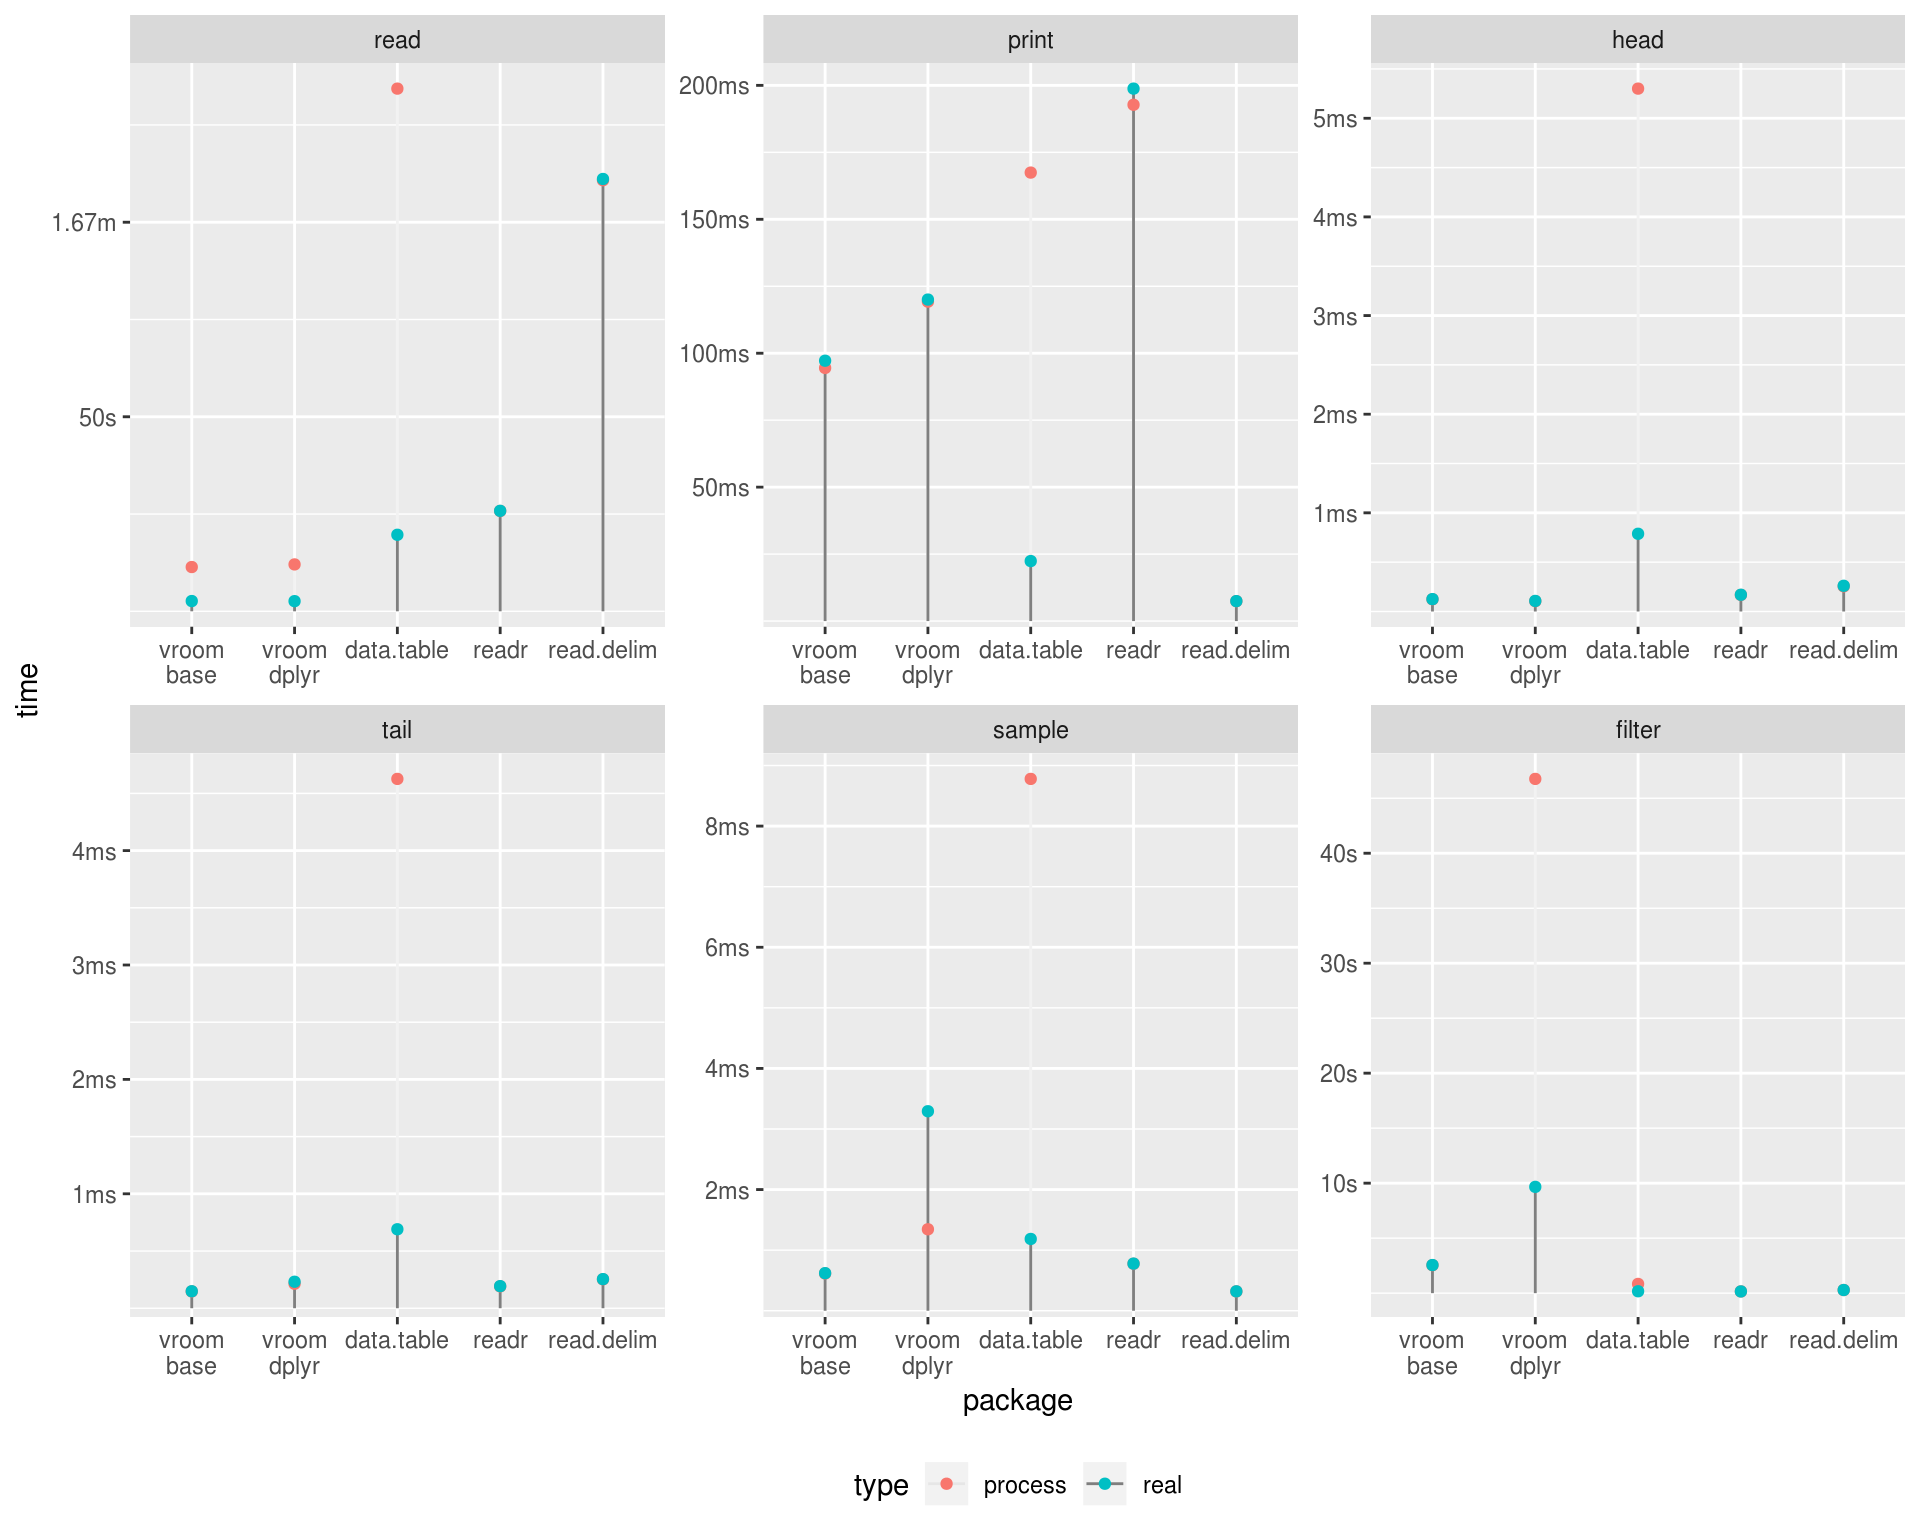
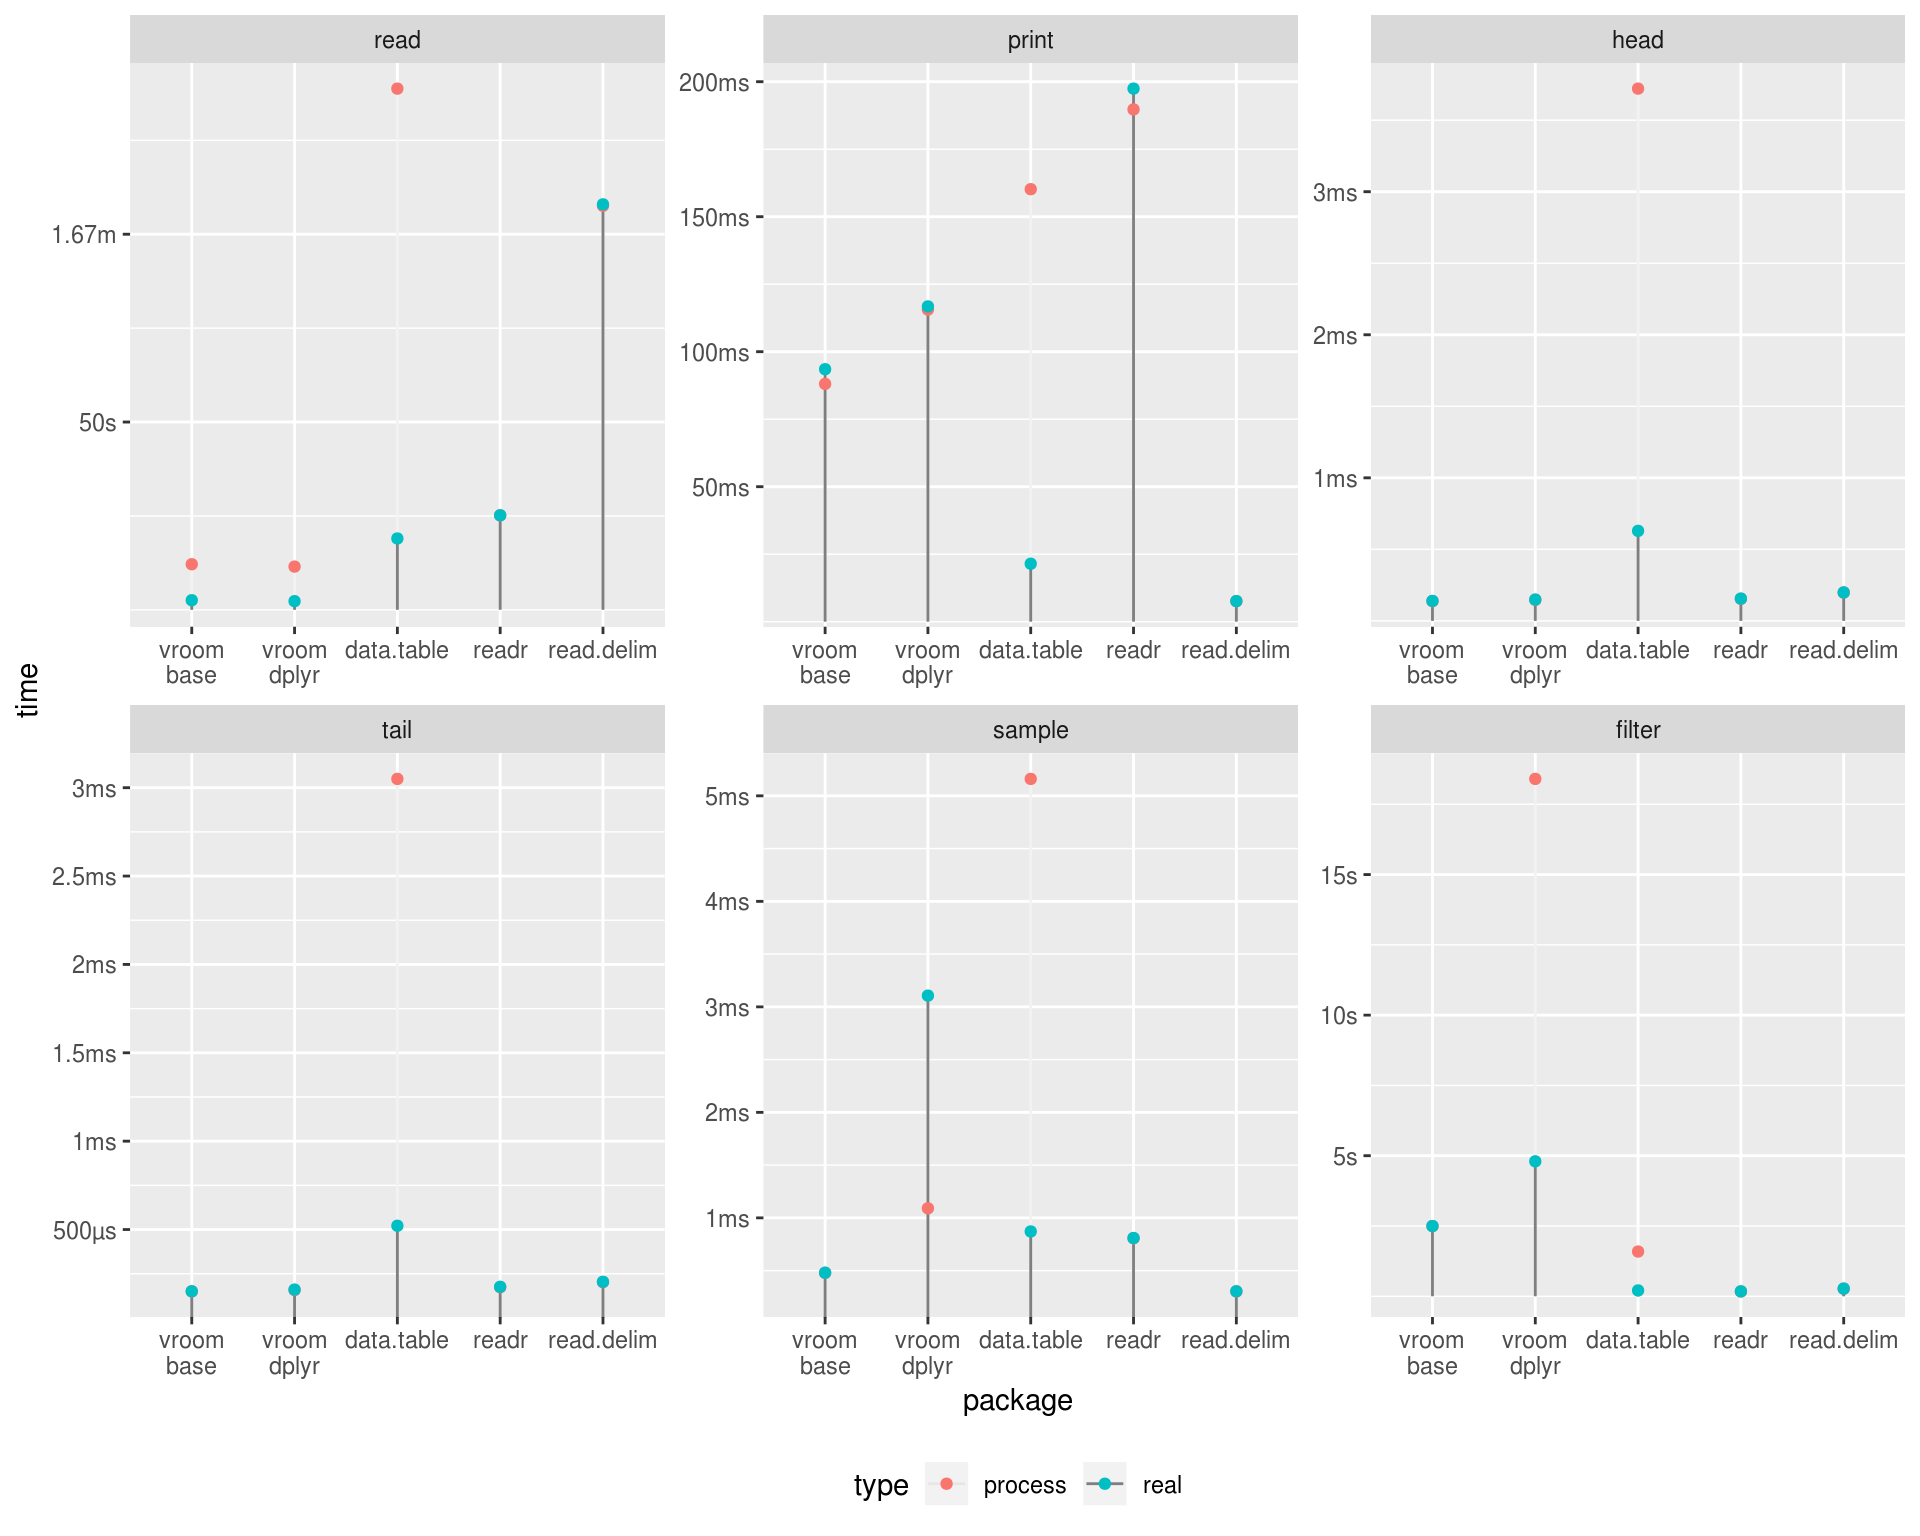
Built site for vroom: 0.0.0.9000@b6ea9a0

diff --git a/index.html b/index.html
@@ -88,7 +88,7 @@
 </h1></div>
 <!-- badges: start -->
 
-<p>The fastest delimited reader for R, <strong>631.84 MB/sec</strong>.</p>
+<p>The fastest delimited reader for R, <strong>650.54 MB/sec</strong>.</p>
 <p>But that’s impossible! How can it be <a href="https://jimhester.github.io/vroom/articles/benchmarks/benchmarks.html">so fast</a>?</p>
 <p>vroom doesn’t stop to actually <em>read</em> all of your data, it simply indexes where each record is located so it can be read later. The vectors returned use the <a href="https://svn.r-project.org/R/branches/ALTREP/ALTREP.html">Altrep framework</a> to lazily load the data on-demand when it is accessed, so you only pay for what you use.</p>
 <p>vroom uses multiple threads for indexing and materializing non-character vectors, to further improve performance.</p>
@@ -103,27 +103,27 @@
 <tbody>
 <tr class="odd">
 <td align="left">vroom</td>
-<td align="right">2.64</td>
-<td align="right">42.12</td>
-<td align="left">631.84 MB</td>
+<td align="right">2.56</td>
+<td align="right">42.14</td>
+<td align="left">650.54 MB</td>
 </tr>
 <tr class="even">
 <td align="left">data.table</td>
-<td align="right">19.67</td>
-<td align="right">5.65</td>
-<td align="left">84.73 MB</td>
+<td align="right">19.00</td>
+<td align="right">5.68</td>
+<td align="left">87.71 MB</td>
 </tr>
 <tr class="odd">
 <td align="left">readr</td>
-<td align="right">25.82</td>
-<td align="right">4.30</td>
-<td align="left">64.55 MB</td>
+<td align="right">25.18</td>
+<td align="right">4.29</td>
+<td align="left">66.21 MB</td>
 </tr>
 <tr class="even">
 <td align="left">read.delim</td>
-<td align="right">111.12</td>
+<td align="right">107.97</td>
 <td align="right">1.00</td>
-<td align="left">15.00 MB</td>
+<td align="left">15.44 MB</td>
 </tr>
 </tbody>
 </table>

diff --git a/articles/benchmarks/benchmarks.html b/articles/benchmarks/benchmarks.html
@@ -157,7 +157,7 @@ vroom_base
 2.6s
 </td>
 <td style="text-align:right;">
-5.3s
+5.2s
 </td>
 </tr>
 <tr>
@@ -165,10 +165,10 @@ vroom_base
 vroom_dplyr
 </td>
 <td style="text-align:right;">
-2.6s
+2.3s
 </td>
 <td style="text-align:right;">
-12.4s
+7.2s
 </td>
 </tr>
 <tr>
@@ -176,10 +176,10 @@ vroom_dplyr
 data.table
 </td>
 <td style="text-align:right;">
-19.7s
+19s
 </td>
 <td style="text-align:right;">
-19.9s
+19.2s
 </td>
 </tr>
 <tr>
@@ -187,10 +187,10 @@ data.table
 readr
 </td>
 <td style="text-align:right;">
-25.8s
+25.2s
 </td>
 <td style="text-align:right;">
-26.2s
+25.6s
 </td>
 </tr>
 <tr>
@@ -198,10 +198,10 @@ readr
 read.delim
 </td>
 <td style="text-align:right;">
-1m 51.1s
+1m 48s
 </td>
 <td style="text-align:right;">
-1m 51.4s
+1m 48.3s
 </td>
 </tr>
 </tbody>
